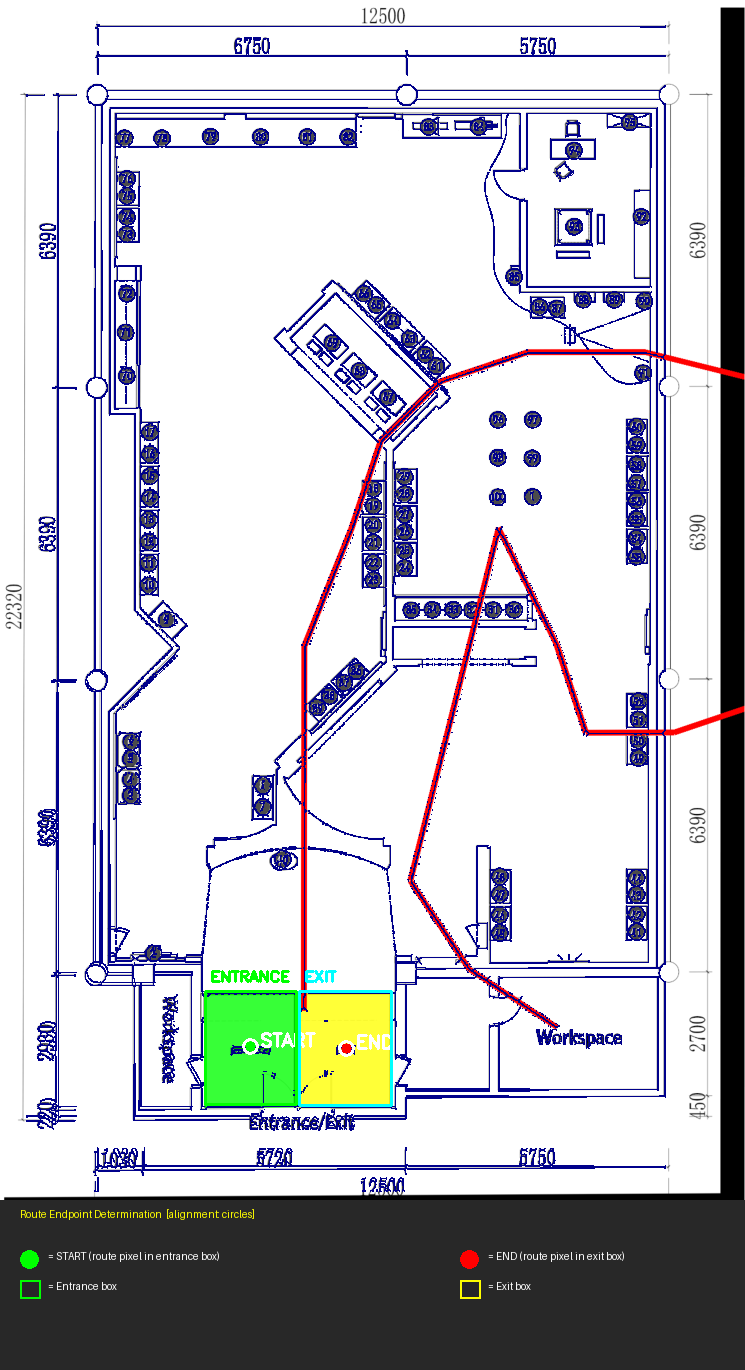
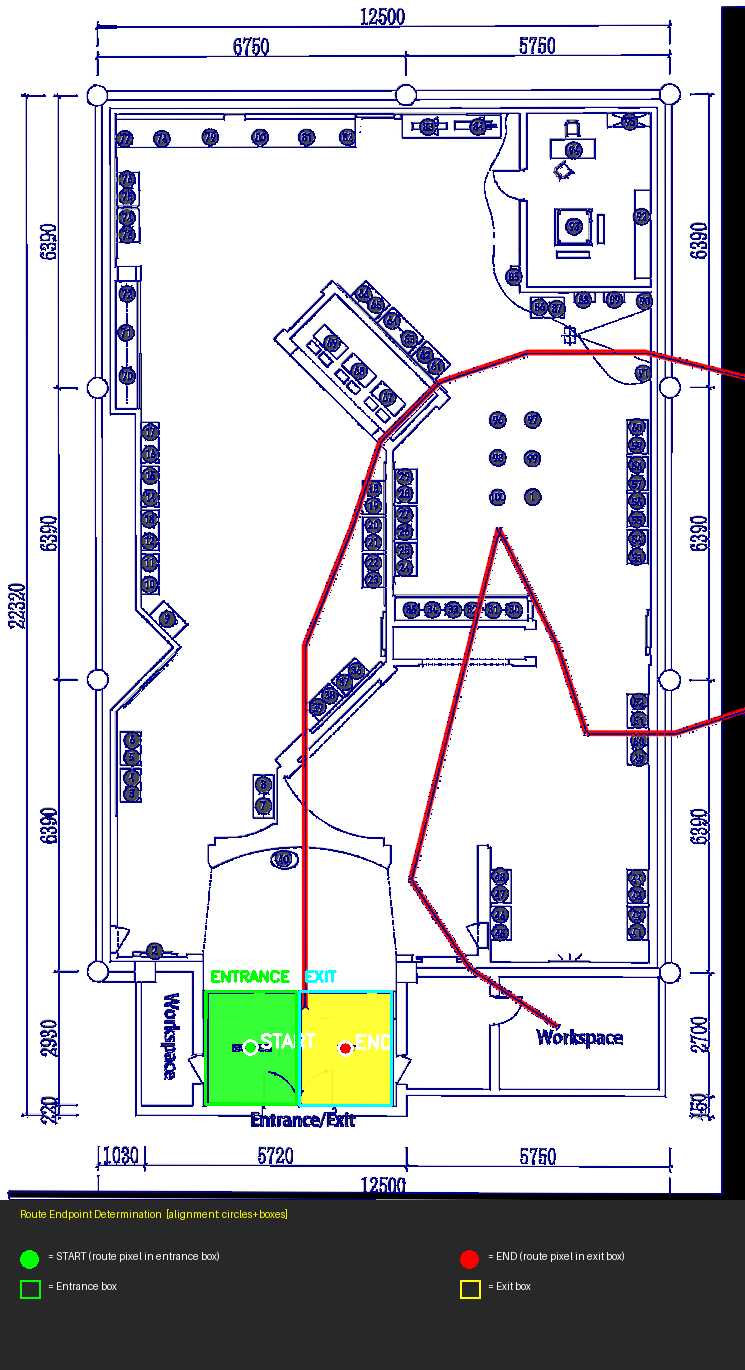
Cleanup

diff --git a/determine_route.py b/determine_route.py
@@ -38,38 +38,16 @@ class RouteDeterminer:
 
         self.entrances = self.annotations.get('entrances', [])
         self.exits     = self.annotations.get('exits', [])
-        self.walls     = self.annotations.get('walls', [])
         self.exhibits  = self.annotations.get('exhibits', [])
-
-        self.museum_bounds = self._calculate_museum_bounds()
 
         print(f"Loaded annotations:")
         print(f"  Entrances : {len(self.entrances)}")
         print(f"  Exits     : {len(self.exits)}")
         print(f"  Exhibits  : {len(self.exhibits)}")
-        if self.museum_bounds:
-            print(f"  Museum bounds: X=[{self.museum_bounds['min_x']:.0f}, "
-                  f"{self.museum_bounds['max_x']:.0f}], "
-                  f"Y=[{self.museum_bounds['min_y']:.0f}, "
-                  f"{self.museum_bounds['max_y']:.0f}]")
 
     # ──────────────────────────────────────────────────────────────────
     # Annotation helpers
     # ──────────────────────────────────────────────────────────────────
-
-    def _calculate_museum_bounds(self):
-        if not self.walls:
-            return None
-        all_x, all_y = [], []
-        for wall in self.walls:
-            if wall['shape'] == 'polyline':
-                for pt in wall['coordinates']['points']:
-                    all_x.append(pt['x'])
-                    all_y.append(pt['y'])
-        if not all_x:
-            return None
-        return dict(min_x=min(all_x), max_x=max(all_x),
-                    min_y=min(all_y), max_y=max(all_y))
 
     def _distance(self, p1, p2):
         return math.sqrt((p1[0]-p2[0])**2 + (p1[1]-p2[1])**2)
@@ -442,7 +420,7 @@ class RouteDeterminer:
         print("="*70)
 
         # ── Load ──────────────────────────────────────────────────────
-        print("\n[1/7] Loading images…")
+        print("\n[1/5] Loading images…")
         route_img    = cv2.cvtColor(
             np.array(PILImage.open(str(route_image_path)).convert('RGB')),
             cv2.COLOR_RGB2BGR)
@@ -454,7 +432,7 @@ class RouteDeterminer:
         print(f"    Original image: {original_img.shape[:2]} (H x W)")
 
         # ── Align ─────────────────────────────────────────────────────
-        print("\n[2/7] Aligning route image to original coordinate space…")
+        print("\n[2/5] Aligning route image to original coordinate space…")
         same_size = (route_img.shape[:2] == original_img.shape[:2])
         if same_size:
             print("    Images are the same size — skipping alignment.")
@@ -466,40 +444,36 @@ class RouteDeterminer:
             print(f"    Alignment method used: {alignment_method}")
 
         # ── Difference ────────────────────────────────────────────────
-        print("\n[3/7] Computing image difference…")
+        print("\n[3/5] Computing image difference…")
         difference = cv2.absdiff(aligned_route, original_img)
         gray_diff  = cv2.cvtColor(difference, cv2.COLOR_BGR2GRAY)
 
         # ── Threshold ─────────────────────────────────────────────────
-        print(f"\n[4/7] Applying threshold (threshold={difference_threshold})…")
+        # Required: converts the greyscale difference into a binary route mask.
+        # All downstream steps (morphology, skeletonization, endpoint search)
+        # operate on this binary mask.
+        print(f"\n[4/5] Applying threshold (threshold={difference_threshold})…")
         _, mask_threshold = cv2.threshold(
             gray_diff, difference_threshold, 255, cv2.THRESH_BINARY)
         print(f"    Detected {cv2.countNonZero(mask_threshold)} changed pixels")
 
-        # ── ROI ───────────────────────────────────────────────────────
-        mask_roi = mask_threshold.copy()
-        if self.museum_bounds:
-            print(f"\n[5/7] Applying museum ROI mask…")
-            roi_mask = np.zeros(mask_threshold.shape, dtype=np.uint8)
-            x_min = max(0, int(self.museum_bounds['min_x'] - 200))
-            x_max = min(mask_threshold.shape[1], int(self.museum_bounds['max_x']))
-            y_min = max(0, int(self.museum_bounds['min_y'] - 200))
-            y_max = min(mask_threshold.shape[0], int(self.museum_bounds['max_y'] + 200))
-            roi_mask[y_min:y_max, x_min:x_max] = 255
-            mask_roi = cv2.bitwise_and(mask_threshold, roi_mask)
-            print(f"    After ROI: {cv2.countNonZero(mask_roi)} pixels")
-        else:
-            print("\n[5/7] Skipping ROI mask (no museum bounds)")
+        # ROI step removed: noise outside the entrance/exit bounding boxes is
+        # already irrelevant because _find_route_endpoints_by_boxes only
+        # inspects skeleton pixels that fall inside those boxes.
 
         # ── Morphology ────────────────────────────────────────────────
-        print("\n[6/7] Applying morphological operations…")
+        # Required: CLOSE fills small gaps in the drawn route line so the
+        # skeleton stays connected through the entrance/exit boxes; OPEN
+        # removes isolated noise specks that would otherwise produce spurious
+        # skeleton branches and slow down skeletonization.
+        print("\n[5/5] Applying morphological operations…")
         kernel      = np.ones((2, 2), np.uint8)
-        mask_closed = cv2.morphologyEx(mask_roi,    cv2.MORPH_CLOSE, kernel, iterations=1)
-        mask_opened = cv2.morphologyEx(mask_closed, cv2.MORPH_OPEN,  kernel, iterations=1)
+        mask_closed = cv2.morphologyEx(mask_threshold, cv2.MORPH_CLOSE, kernel, iterations=1)
+        mask_opened = cv2.morphologyEx(mask_closed,    cv2.MORPH_OPEN,  kernel, iterations=1)
         print(f"    After morphology: {cv2.countNonZero(mask_opened)} pixels")
 
         # ── Skeletonize ───────────────────────────────────────────────
-        print("\n[7/7] Skeletonizing route…")
+        print("\nSkeletonizing route…")
         skeleton = self._skeletonize(mask_opened)
         print(f"    Skeleton: {cv2.countNonZero(skeleton)} pixels")
 
